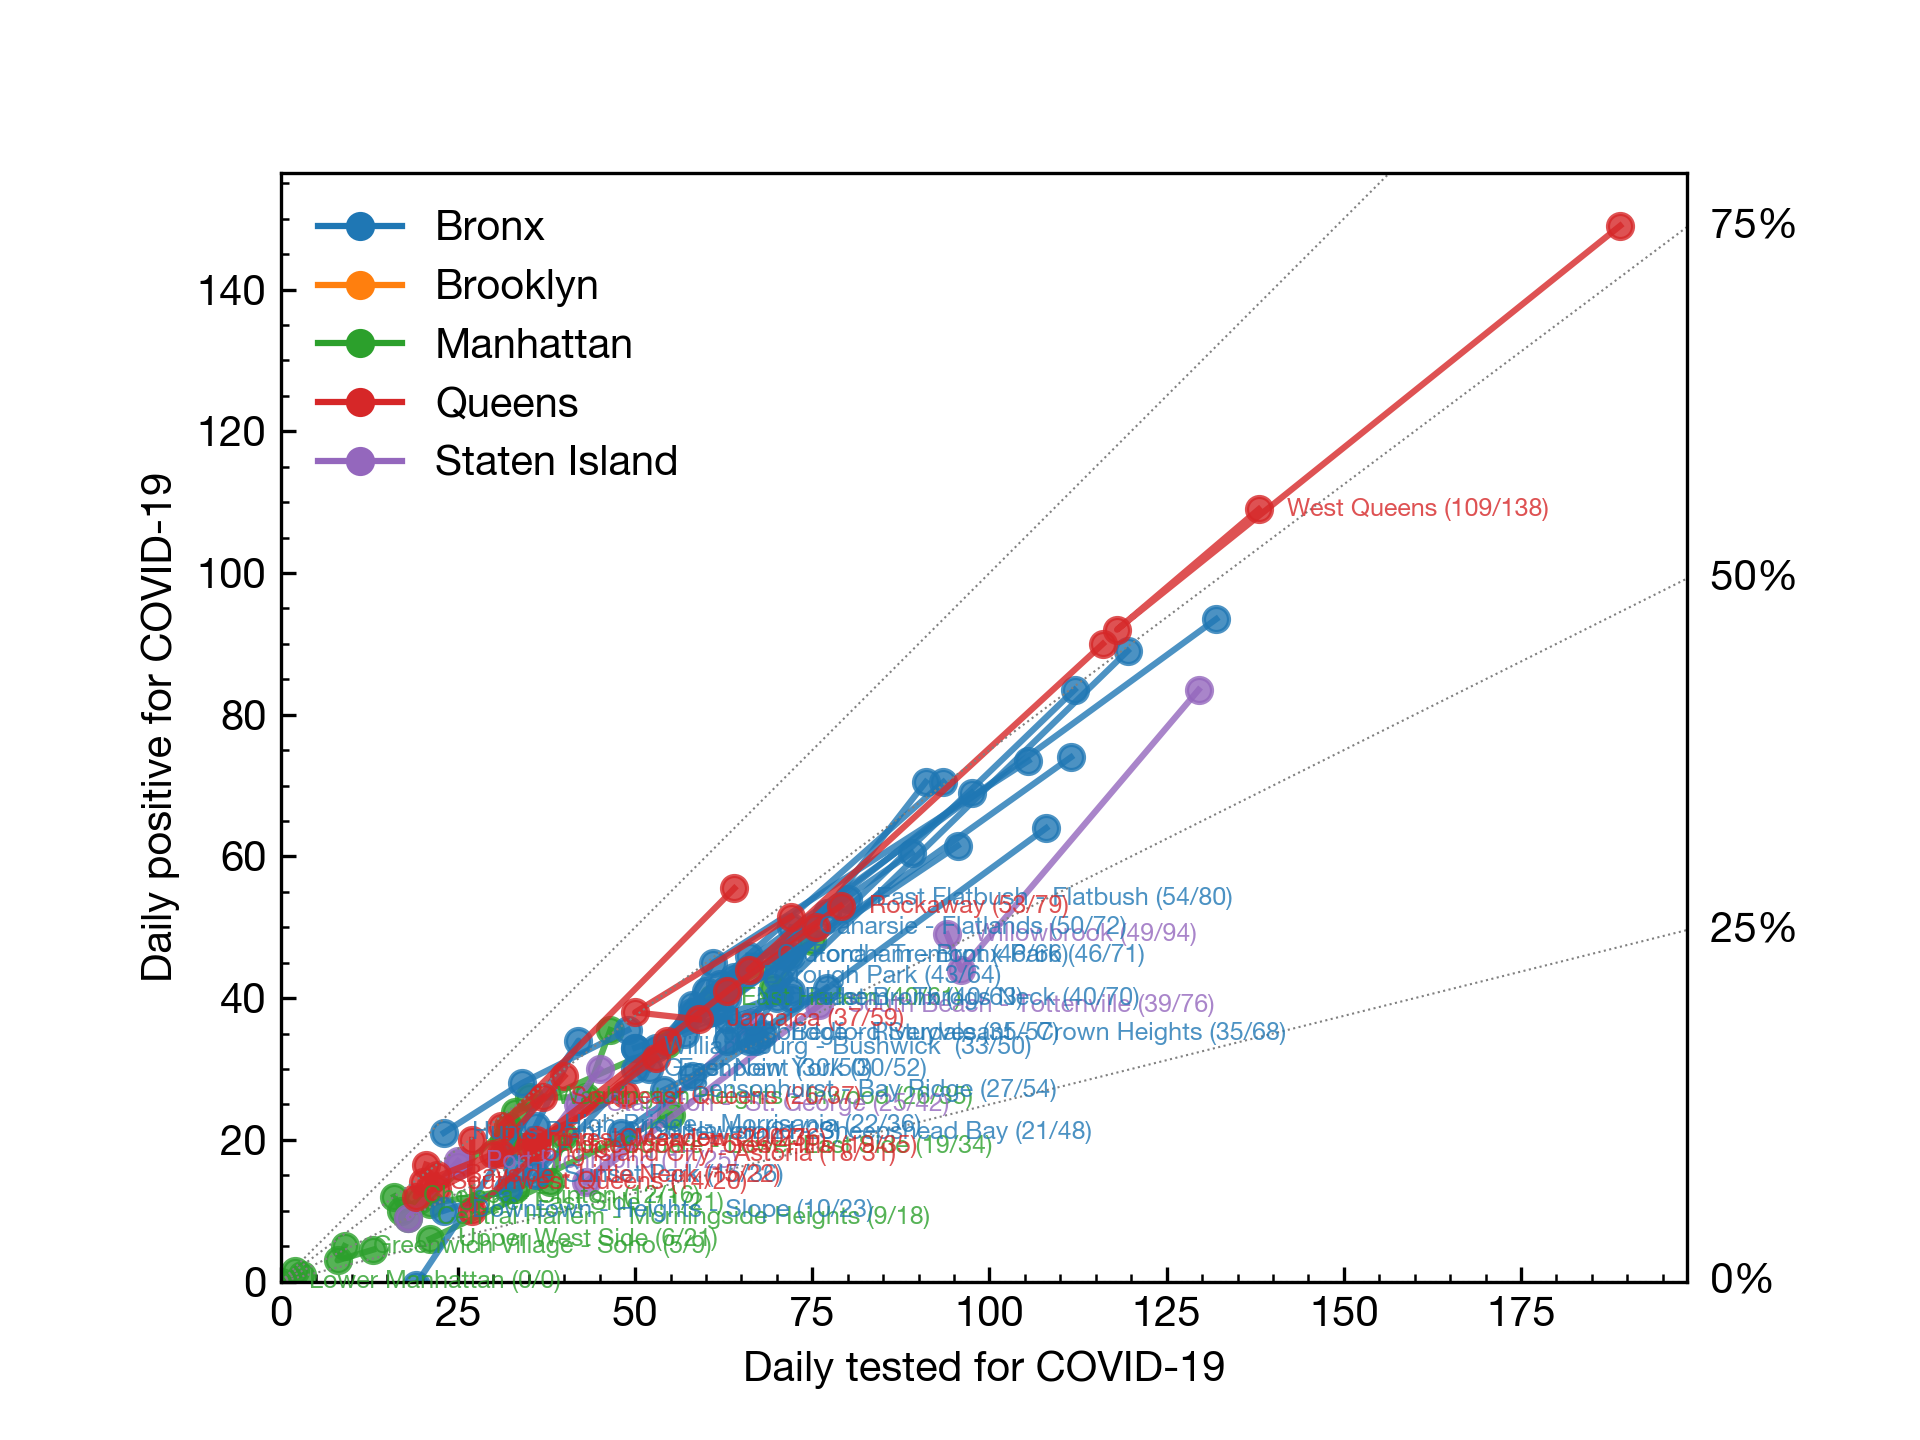
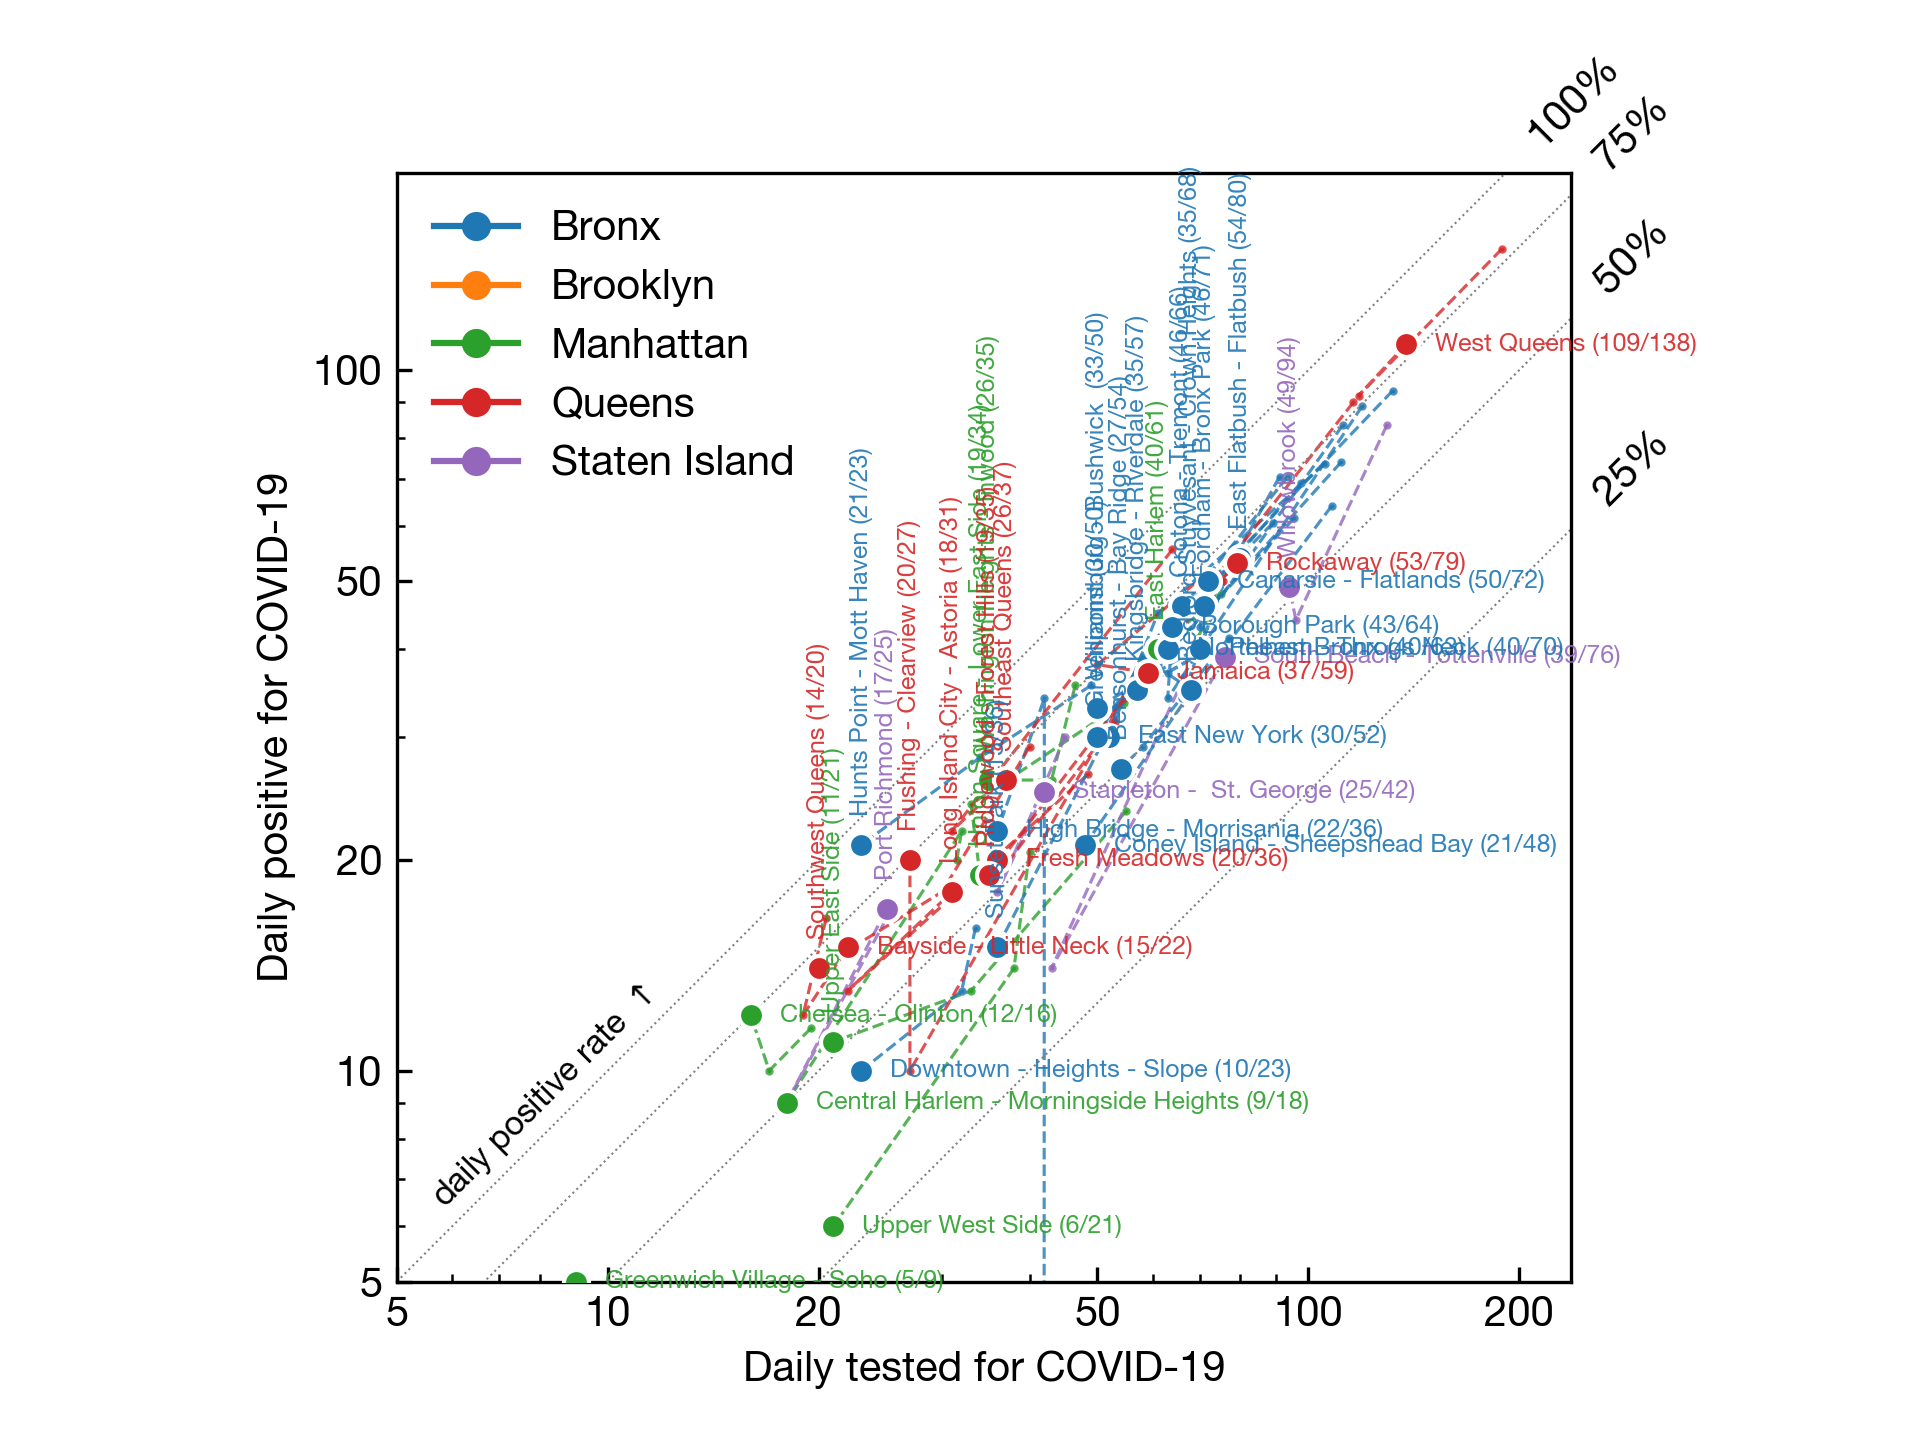
Use a log-log plot for daily positive

diff --git a/scripts/plot_zcta.py b/scripts/plot_zcta.py
@@ -64,12 +64,31 @@ if __name__ == "__main__":
         if max(y_array) > 1000:
             print(uhf_code)
 
-        plt.plot(x_array, y_array, marker="o", c=colors[uhf_data["borough"]], alpha=.8)
-        plt.text(
-            x_array[-1] + 4, y_array[-1],
-            uhf_data["neighborhood_name"] + f" ({int(y_array[-1])}/{int(x_array[-1])})",
-            color=colors[uhf_data["borough"]],
-            va="center", ha="left", size=6, alpha=.8)
+        plt.plot(x_array, y_array, marker="o", c=colors[uhf_data["borough"]], alpha=.8, ls="dashed", markersize=1, lw=.75)
+        plt.plot(x_array[-1], y_array[-1], marker="o", c=colors[uhf_data["borough"]], markersize=6, mec="white", zorder=10)
+        if int(uhf_code) % 2 == 1:
+            plt.text(
+                x_array[-1], y_array[-1] * 1.1,
+                uhf_data["neighborhood_name"] + f" ({int(y_array[-1])}/{int(x_array[-1])})",
+                color=colors[uhf_data["borough"]],
+                va="bottom", ha="center",
+                size=6, alpha=.9,
+                rotation=90,
+                zorder=15
+            )
+        else:
+            plt.text(
+                x_array[-1] * 1.1, y_array[-1],
+                uhf_data["neighborhood_name"] + f" ({int(y_array[-1])}/{int(x_array[-1])})",
+                color=colors[uhf_data["borough"]],
+                va="center", ha="left",
+                size=6, alpha=.9,
+                weight="bold",
+                zorder=15
+            )
+
+
+    plt.loglog()
 
     plt.xlabel("Daily tested for COVID-19")
     plt.ylabel("Daily positive for COVID-19")
@@ -79,12 +98,25 @@ if __name__ == "__main__":
         for color in colors.values()
     ], boroughs)
     plt.gca().set_aspect("equal")
-    plt.xlim(left=0)
-    plt.ylim(bottom=0)
+    plt.xlim(left=5)
+    plt.ylim(bottom=5)
     for percent in numpy.arange(0, 1.1, .25):
         plt.plot(plt.xlim(), numpy.array(plt.xlim()) * percent, c="grey", lw=.5, ls="dotted")
         if percent == 1: continue
-        plt.text(plt.xlim()[1], plt.xlim()[1]*percent, f"  {percent*100:.0f}%", ha="left", va="center", c="k")
+        plt.text(plt.xlim()[1], plt.xlim()[1]*percent, f"  {percent*100:.0f}%", ha="left", va="bottom", c="k", rotation=45)
+        
+    plt.text(plt.ylim()[1], plt.ylim()[1], f"  100%", ha="left", va="bottom", c="k", rotation=45)
+
+    plt.text(plt.xlim()[0] * 1.1, plt.ylim()[0] * 1.28, "daily positive rate $\\uparrow$", rotation=45, size=8)
+
+    from matplotlib.ticker import LogLocator
+    from util import LogFormatterSI
+
+    plt.gca().xaxis.set_major_locator(LogLocator(subs=(1, 2, 5)))
+    plt.gca().xaxis.set_major_formatter(LogFormatterSI(labelOnlyBase=False, minor_thresholds=(numpy.inf, numpy.inf)))
+    plt.gca().yaxis.set_major_locator(LogLocator(subs=(1, 2, 5)))
+    plt.gca().yaxis.set_major_formatter(LogFormatterSI(labelOnlyBase=False, minor_thresholds=(numpy.inf, numpy.inf)))
+
     plt.savefig("plots/NYC-districts-positive.png")
 
 
